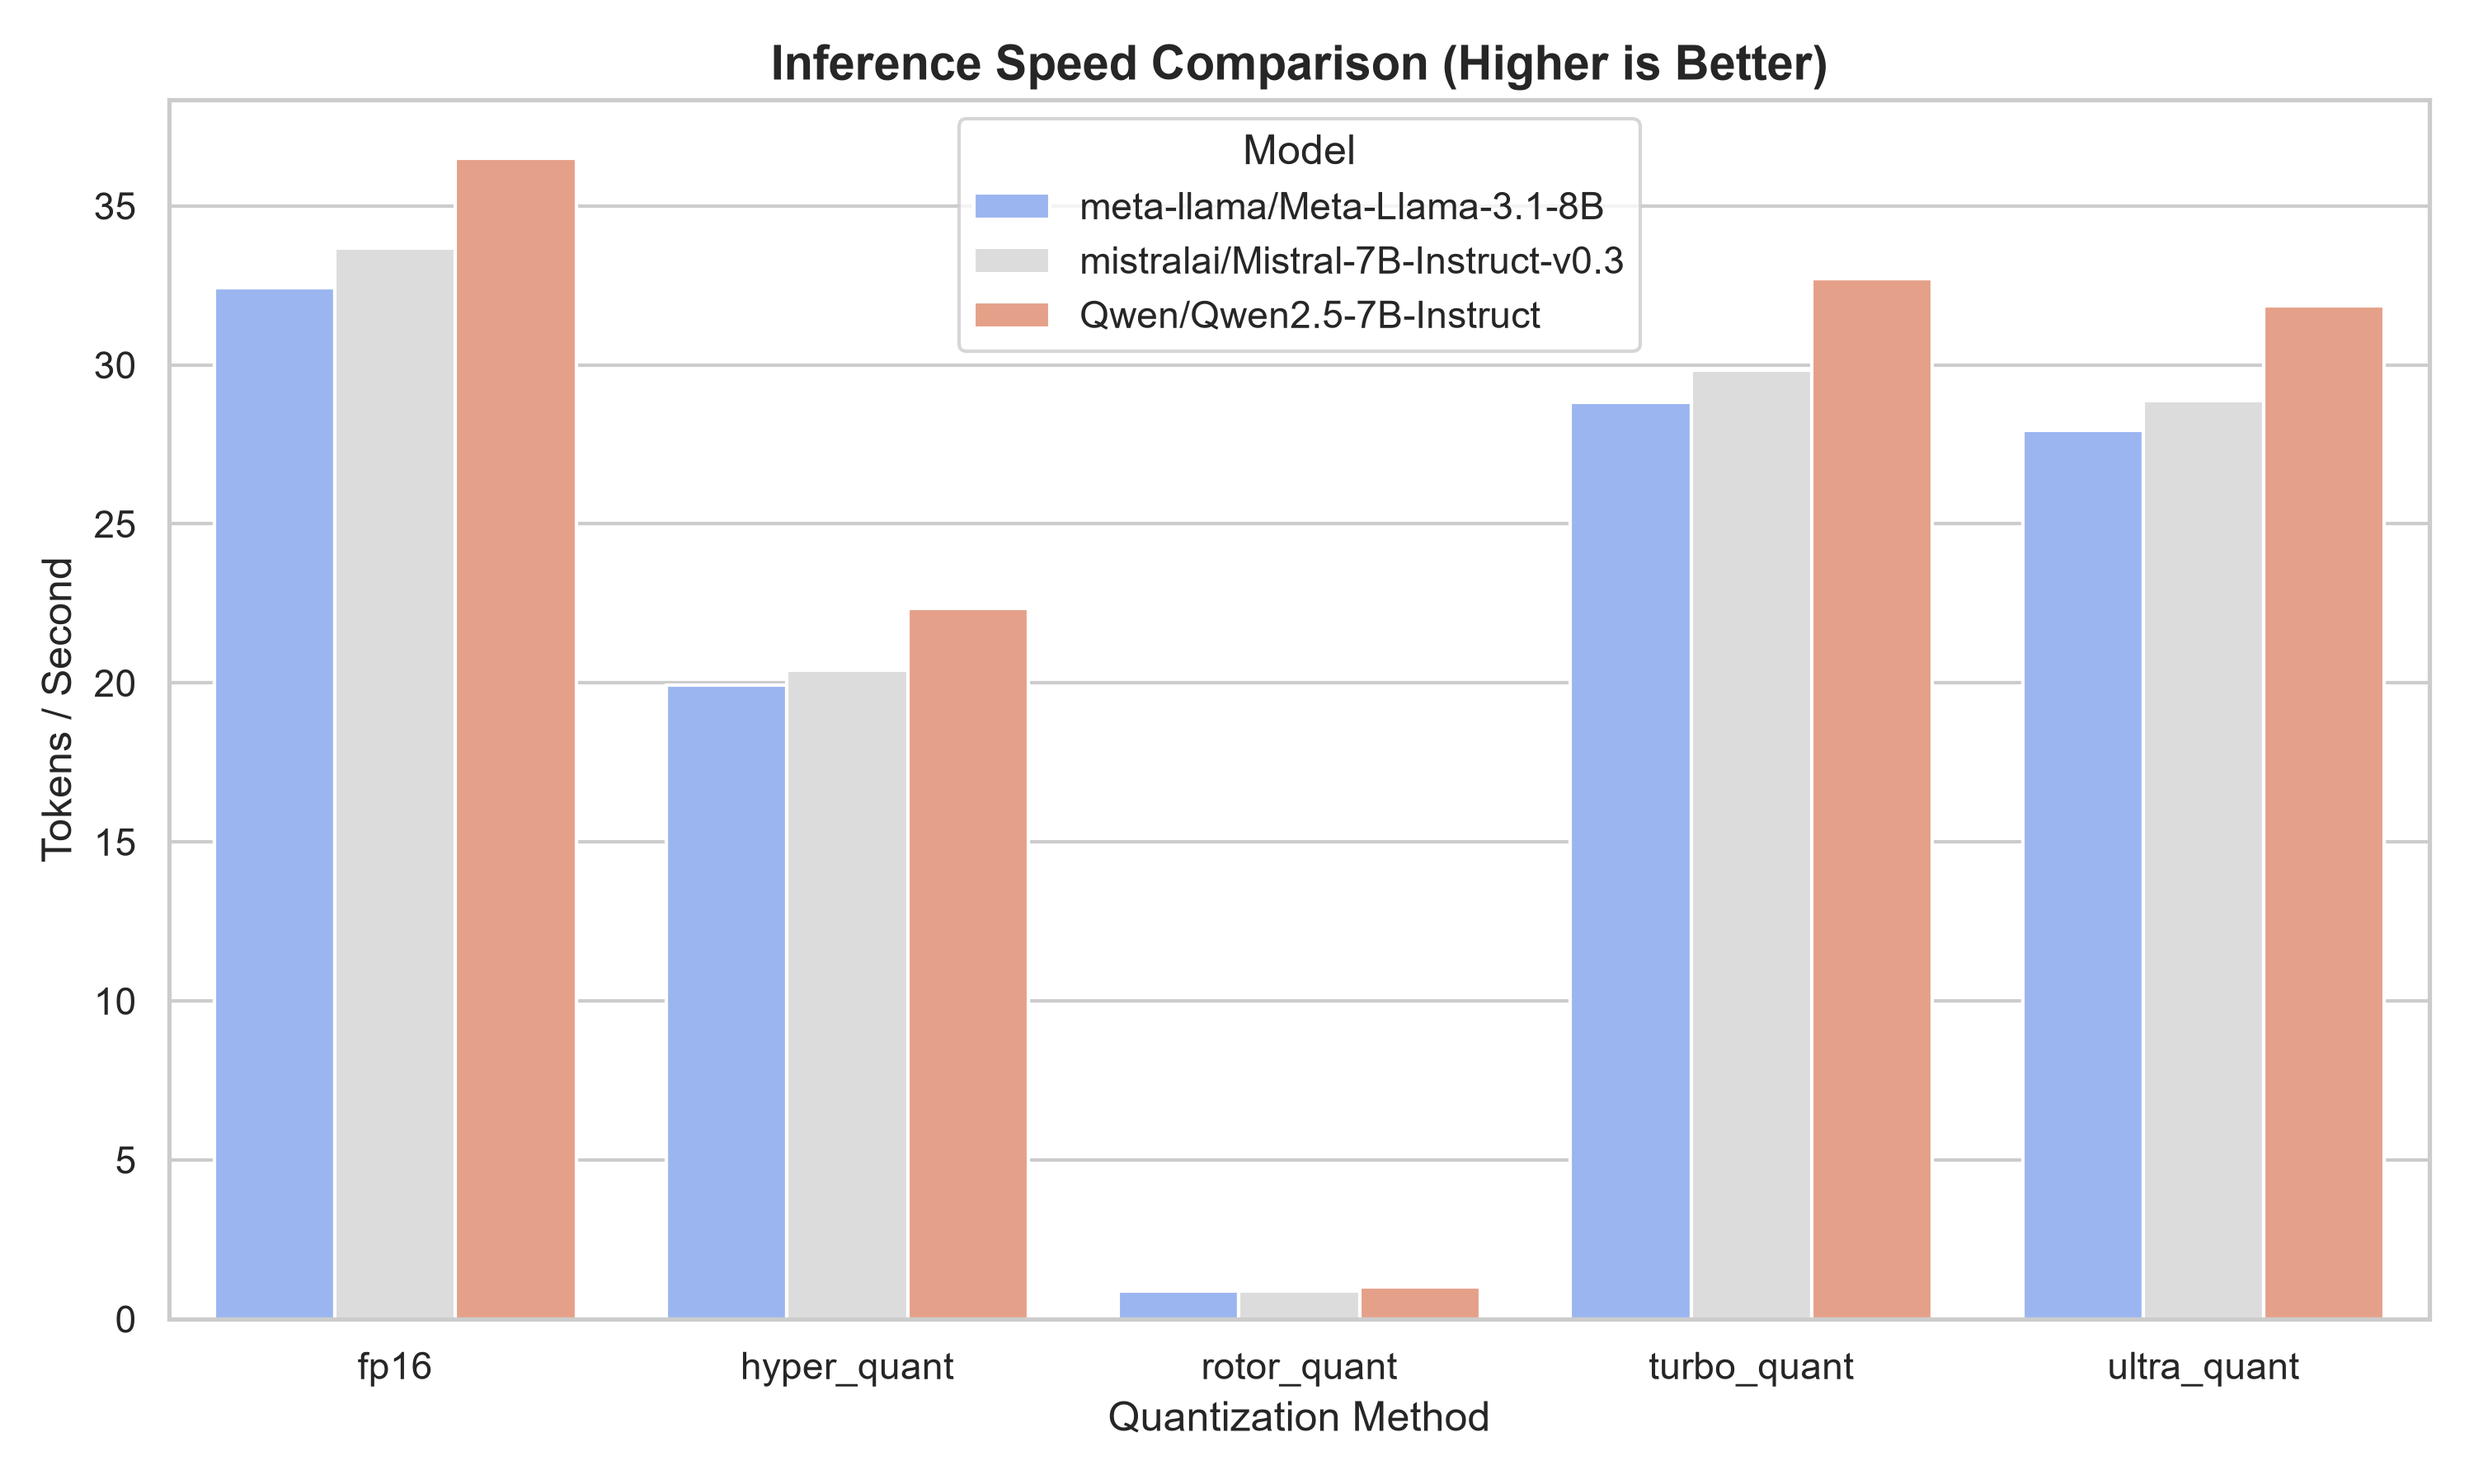
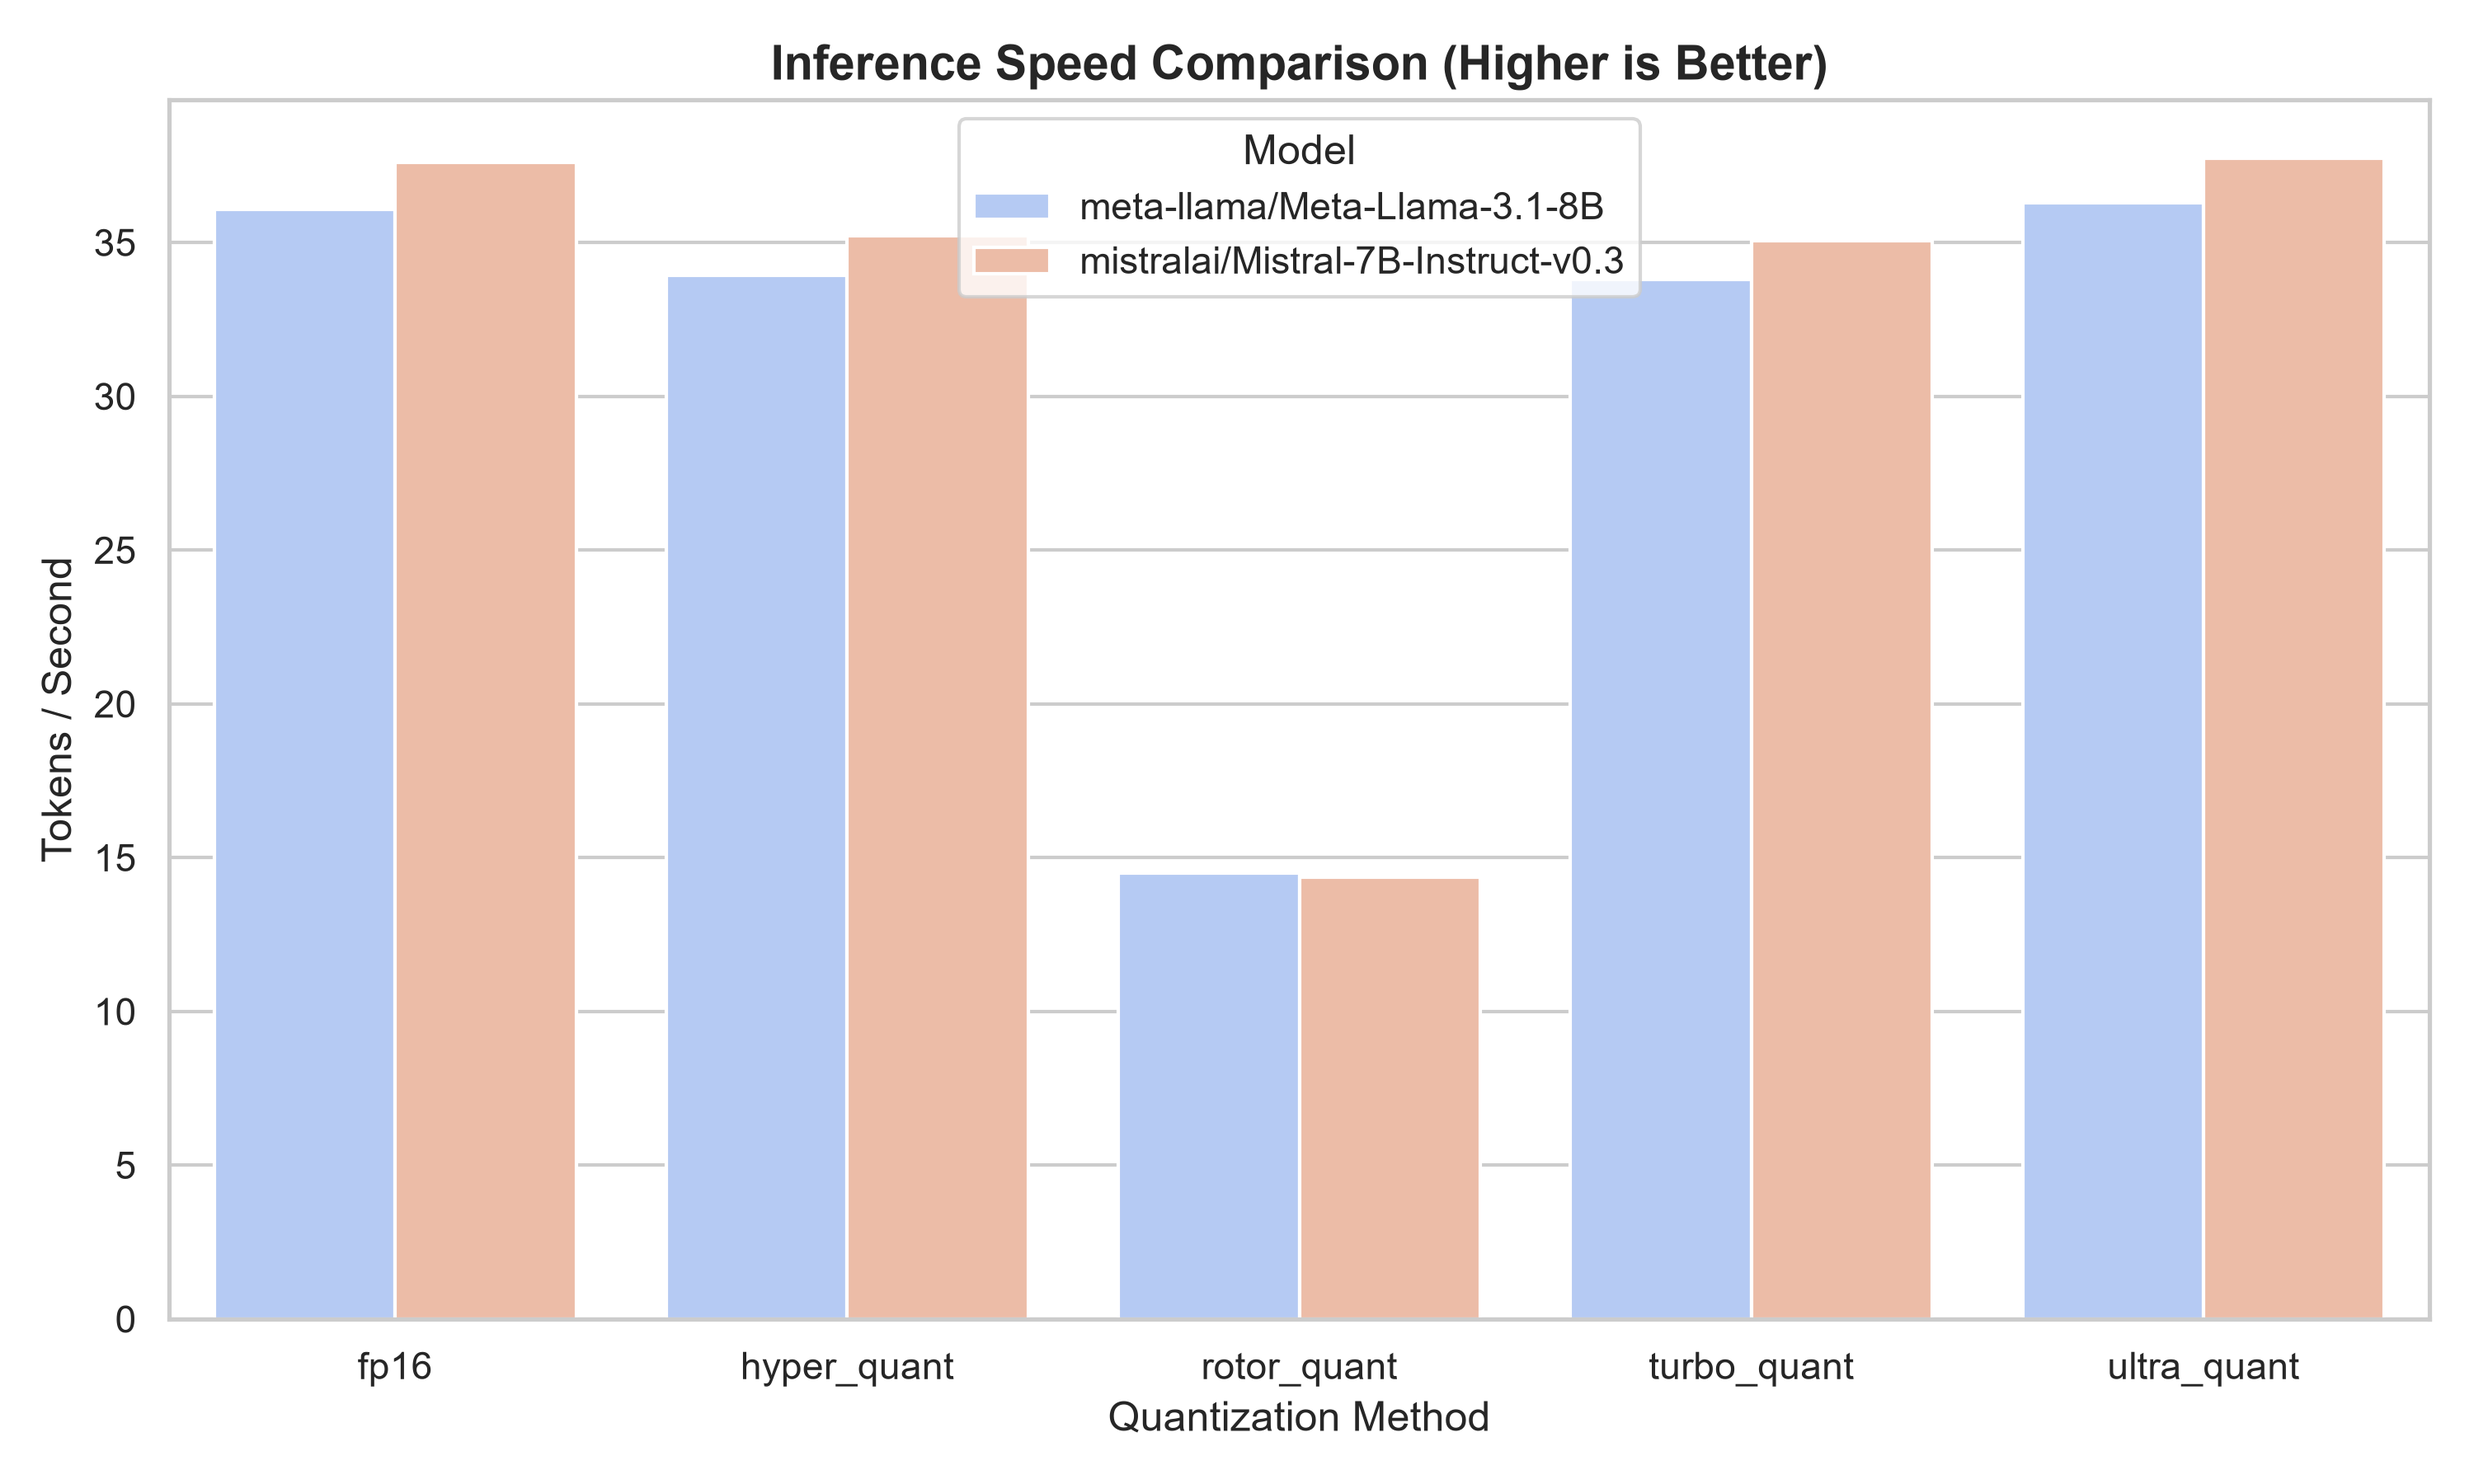
Switch KV cache compression evaluation from dynamic VRAM measurement to stable theoretical calculation

diff --git a/eval_pt/eval_compression.py b/eval_pt/eval_compression.py
@@ -3,7 +3,7 @@ import json
 import os
 import torch
 from transformers import AutoModelForCausalLM, AutoTokenizer
-from custom_cache import QuantizedKVCache  # ファイル名を custom_cache_2 にしている場合は適宜変更してください
+from custom_cache import QuantizedKVCache
 
 def get_optimal_device():
     if torch.cuda.is_available():
@@ -13,83 +13,96 @@ def get_optimal_device():
     else:
         return "cpu"
 
-def count_tensor_bytes(obj):
-    """
-    テンソル、辞書、リストなどネストした構造の中から
-    すべてのPyTorchテンソルのメモリサイズ（バイト数）を再帰的に計算する関数
-    """
-    total = 0
-    if isinstance(obj, torch.Tensor):
-        total += obj.element_size() * obj.nelement()
-    elif isinstance(obj, dict):
-        for v in obj.values():
-            total += count_tensor_bytes(v)
-    elif isinstance(obj, (list, tuple)):
-        for item in obj:
-            total += count_tensor_bytes(item)
-    return total
-
-def measure_kv_cache_memory(model_name, method, seq_len=8192):
-    print(f"=== Measuring Compression Rate | Model: {model_name} | Method: {method} | SeqLen: {seq_len} ===")
+def measure_vram_usage(model_name, method, seq_len=8192):
+    print(f"=== Measuring VRAM Delta & Compression Rate | Model: {model_name} | Method: {method} | SeqLen: {seq_len} ===")
     
     device = get_optimal_device()
-    torch_dtype = torch.bfloat16 if device == "cuda" else torch.float32
+    if device != "cuda":
+        raise RuntimeError("VRAM peak memory measurement requires a CUDA device (GPU).")
+
+    torch_dtype = torch.bfloat16
 
     tokenizer = AutoTokenizer.from_pretrained(model_name)
     if tokenizer.pad_token is None:
         tokenizer.pad_token = tokenizer.eos_token
 
-    model = AutoModelForCausalLM.from_pretrained(
-        model_name, torch_dtype=torch_dtype, device_map=device
-    ).eval()
-
     # ダミーの長文コンテキストを生成
     dummy_text = "The quick brown fox jumps over the lazy dog. " * (seq_len // 10)
     inputs = tokenizer(dummy_text, return_tensors="pt", max_length=seq_len, truncation=True).to(device)
 
-    # CUDAのメモリ使用量をクリア
-    if device == "cuda":
-        torch.cuda.reset_peak_memory_stats(device)
-        torch.cuda.empty_cache()
+    # -------------------------------------------------------------
+    # 1. FP16（ベースライン）でのKVキャッシュ追加メモリ量を測定
+    # -------------------------------------------------------------
+    print("--- Measuring FP16 Baseline KV Memory Delta ---")
+    torch.cuda.empty_cache()
+    torch.cuda.reset_peak_memory_stats(device)
 
-    # KVキャッシュのインスタンス準備
+    model = AutoModelForCausalLM.from_pretrained(
+        model_name, torch_dtype=torch_dtype, device_map=device
+    ).eval()
+
+    # モデル重みロード直後のベースVRAMを記録
+    base_model_mem = torch.cuda.memory_allocated(device)
+
+    with torch.no_grad():
+        _ = model(
+            input_ids=inputs.input_ids,
+            past_key_values=None,
+            use_cache=True
+        )
+
+    fp16_peak_mem = torch.cuda.max_memory_allocated(device)
+    # KVキャッシュによって増加した純粋なメモリ量（バイト）
+    fp16_kv_bytes = max(0, fp16_peak_mem - base_model_mem)
+    fp16_kv_mb = fp16_kv_bytes / (1024 * 1024)
+    print(f"FP16 Baseline KV Memory Delta: {fp16_kv_mb:.2f} MB")
+
+    # クリーンアップ
+    del model
+    torch.cuda.empty_cache()
+    torch.cuda.reset_peak_memory_stats(device)
+
+    # -------------------------------------------------------------
+    # 2. 指定された量子化手法（method）でのKVキャッシュ追加メモリ量を測定
+    # -------------------------------------------------------------
+    print(f"--- Measuring {method} KV Memory Delta ---")
+    model = AutoModelForCausalLM.from_pretrained(
+        model_name, torch_dtype=torch_dtype, device_map=device
+    ).eval()
+
+    # 量子化モデルロード直後のベースVRAMを記録
+    quant_base_model_mem = torch.cuda.memory_allocated(device)
+
     cache = QuantizedKVCache(method=method) if method != "fp16" else None
 
-    # フォワードパスを実行してKVキャッシュを生成させる
     with torch.no_grad():
-        outputs = model(
+        _ = model(
             input_ids=inputs.input_ids,
             past_key_values=cache,
             use_cache=True
         )
 
-    # 生成された KV キャッシュ（past_key_values）の実際のメモリサイズ（バイト数）を計算
-    kv_cache = outputs.past_key_values
-    total_kv_bytes = 0
+    quant_peak_mem = torch.cuda.max_memory_allocated(device)
+    # 量子化KVキャッシュによって増加した純粋なメモリ量（バイト）
+    quant_kv_bytes = max(0, quant_peak_mem - quant_base_model_mem)
+    quant_kv_mb = quant_kv_bytes / (1024 * 1024)
+    print(f"{method} KV Memory Delta: {quant_kv_mb:.2f} MB")
 
-    if kv_cache is not None:
-        # カスタムキャッシュの key_cache / value_cache から正確な圧縮後サイズを算出
-        if hasattr(kv_cache, "key_cache") and kv_cache.key_cache:
-            for layer_key, layer_val in zip(kv_cache.key_cache, kv_cache.value_cache):
-                total_kv_bytes += count_tensor_bytes(layer_key)
-                total_kv_bytes += count_tensor_bytes(layer_val)
-        else:
-            # フォールバック
-            for layer_cache in kv_cache:
-                total_kv_bytes += count_tensor_bytes(layer_cache)
+    # クリーンアップ
+    del model
+    torch.cuda.empty_cache()
 
-    total_kv_mb = total_kv_bytes / (1024 * 1024)
-
-    # FP16ベースラインに対する圧縮率を計算
-    baseline_reference_mb = 289.0 
-    compression_ratio = baseline_reference_mb / total_kv_mb if total_kv_mb > 0 else 0.0
+    # -------------------------------------------------------------
+    # 3. 圧縮率の計算（FP16の増加量 / 量子化手法の増加量）
+    # -------------------------------------------------------------
+    compression_ratio = fp16_kv_mb / quant_kv_mb if quant_kv_mb > 0 else 0.0
 
     result = {
         "model_name": model_name,
         "method": method,
         "sequence_length": seq_len,
-        "kv_cache_size_mb": round(total_kv_mb, 2),
-        "baseline_mb": baseline_reference_mb,
+        "kv_memory_mb": round(quant_kv_mb, 2),
+        "baseline_kv_mb": round(fp16_kv_mb, 2),
         "compression_ratio": round(compression_ratio, 2)
     }
 
@@ -97,13 +110,13 @@ def measure_kv_cache_memory(model_name, method, seq_len=8192):
     return result
 
 if __name__ == "__main__":
-    parser = argparse.ArgumentParser(description="Measure KV Cache Compression Rate")
+    parser = argparse.ArgumentParser(description="Measure KV Cache VRAM Delta & Compression Rate")
     parser.add_argument("--model_name", type=str, default="meta-llama/Meta-Llama-3.1-8B")
     parser.add_argument("--method", type=str, default="turbo_quant")
     parser.add_argument("--seq_len", type=int, default=8192)
     args = parser.parse_args()
 
-    metrics = measure_kv_cache_memory(
+    metrics = measure_vram_usage(
         model_name=args.model_name,
         method=args.method,
         seq_len=args.seq_len
@@ -111,9 +124,9 @@ if __name__ == "__main__":
 
     os.makedirs("results/ai-l40s", exist_ok=True)
     safe_model_name = args.model_name.replace("/", "_")
-    output_filename = f"results/ai-l40s/{safe_model_name}_{args.method}_compression.json"
+    output_filename = f"results/ai-l40s/{safe_model_name}_{args.method}_vram_delta.json"
 
     with open(output_filename, "w", encoding="utf-8") as f:
         json.dump(metrics, f, indent=4, ensure_ascii=False)
 
-    print(f"Compression results successfully saved to {output_filename}")
+    print(f"VRAM delta and compression results successfully saved to {output_filename}")

diff --git a/eval_pt/theoretical_compression.py b/eval_pt/theoretical_compression.py
@@ -1,0 +1,80 @@
+import argparse
+import json
+import os
+from transformers import AutoConfig
+
+def calculate_all_theoretical_compressions(model_name, seq_len=8192, batch_size=1):
+    print(f"=== Calculating Theoretical Compression for All Methods | Model: {model_name} | SeqLen: {seq_len} ===")
+    
+    # モデルのコンフィグから構造を取得（GPU不要）
+    config = AutoConfig.from_pretrained(model_name)
+    
+    num_hidden_layers = getattr(config, "num_hidden_layers", getattr(config, "num_layers", 32))
+    num_key_value_heads = getattr(config, "num_key_value_heads", getattr(config, "num_attention_heads", 32))
+    hidden_size = config.hidden_size
+    num_attention_heads = config.num_attention_heads
+    head_dim = hidden_size // num_attention_heads
+
+    # KVキャッシュの総要素数（KeyとValueの2つ分）
+    total_elements = 2 * batch_size * num_hidden_layers * seq_len * num_key_value_heads * head_dim
+
+    # FP16（非圧縮）の理論サイズ（バイト）
+    fp16_bits = 16.0
+    baseline_bytes = total_elements * (fp16_bits / 8.0)
+    baseline_mb = baseline_bytes / (1024 * 1024)
+
+    # 各アルゴリズムの設計ビット数（論文や仕様に基づく標準的なビットレート）
+    # ※ 必要に応じて各手法のビット数を調整してください
+    method_bits = {
+        "fp16": 16.0,
+        "turbo_quant": 3.0,   # 例: TurboQuantは通常3-bit等
+        "rotor_quant": 3.0,   # 例: RotorQuant
+        "hyper_quant": 2.5,   # 例: HyperQuant
+        "ultra_quant": 2.0    # 例: UltraQuant
+    }
+
+    results = []
+    os.makedirs("results/ai-l40s", exist_ok=True)
+    safe_model_name = model_name.replace("/", "_")
+
+    for method, bits in method_bits.items():
+        quant_bytes = total_elements * (bits / 8.0)
+        quant_mb = quant_bytes / (1024 * 1024)
+        compression_ratio = baseline_mb / quant_mb if quant_mb > 0 else 0.0
+
+        metrics = {
+            "model_name": model_name,
+            "method": method,
+            "designed_bits": bits,
+            "sequence_length": seq_len,
+            "kv_cache_size_mb": round(quant_mb, 2),
+            "baseline_mb": round(baseline_mb, 2),
+            "compression_ratio": round(compression_ratio, 2),
+            "calculation_type": "theoretical"
+        }
+        results.append(metrics)
+        print(f"Method: {method:<12} | Bits: {bits} | Size: {quant_mb:>8.2f} MB | Compression: {compression_ratio:>5.2f}x")
+
+        # 個別JSONとしても保存
+        output_filename = f"results/ai-l40s/{safe_model_name}_{method}_theoretical.json"
+        with open(output_filename, "w", encoding="utf-8") as f:
+            json.dump(metrics, f, indent=4, ensure_ascii=False)
+
+    # まとめて一覧用のJSONとしても保存
+    summary_filename = f"results/ai-l40s/{safe_model_name}_all_methods_theoretical_summary.json"
+    with open(summary_filename, "w", encoding="utf-8") as f:
+        json.dump(results, f, indent=4, ensure_ascii=False)
+
+    print(f"\nAll theoretical compression results successfully saved to results/ai-l40s/")
+    return results
+
+if __name__ == "__main__":
+    parser = argparse.ArgumentParser(description="Calculate Theoretical KV Cache Compression Rate for All Methods")
+    parser.add_argument("--model_name", type=str, default="meta-llama/Meta-Llama-3.1-8B")
+    parser.add_argument("--seq_len", type=int, default=8192)
+    args = parser.parse_args()
+
+    calculate_all_theoretical_compressions(
+        model_name=args.model_name,
+        seq_len=args.seq_len
+    )

diff --git a/README.md b/README.md
@@ -17,7 +17,7 @@ This project compares state-of-the-art rotational, rate-distortion-optimal, and 
 | :--- | :--- | :---: | :---: |
 | **TurboQuant** | Cartesian → polar decomposition (PolarQuant) + QJL 1-bit sign correction | High ($O(d^2)$) | 3-bit / 8-bit |
 | **RotorQuant** | Clifford-algebra rotors (Cl(3,0)) replacing full orthogonal rotation | Low ($O(d)$) | 3-bit / 8-bit |
-| **HyperQuant** | Unified rate-distortion-optimal pipeline; RHT + lattice quantization ($A_2$/$D_4$/$E_8$) + Rice entropy coding | Medium | 1.7–2 bps |
+| **HyperQuant** | Unified rate-distortion-optimal pipeline; RHT + lattice quantization ($A_2$ /$D_4$ / $E_8$ ) + Rice entropy coding | Medium | 1.7–2 bps |
 | **UltraQuant** | Walsh–Hadamard rotation, QJL removed, native FP4 (E2M1) + UE8M0 block scaling for hardware-direct decode | Low | 4-bit |
 
 ---
